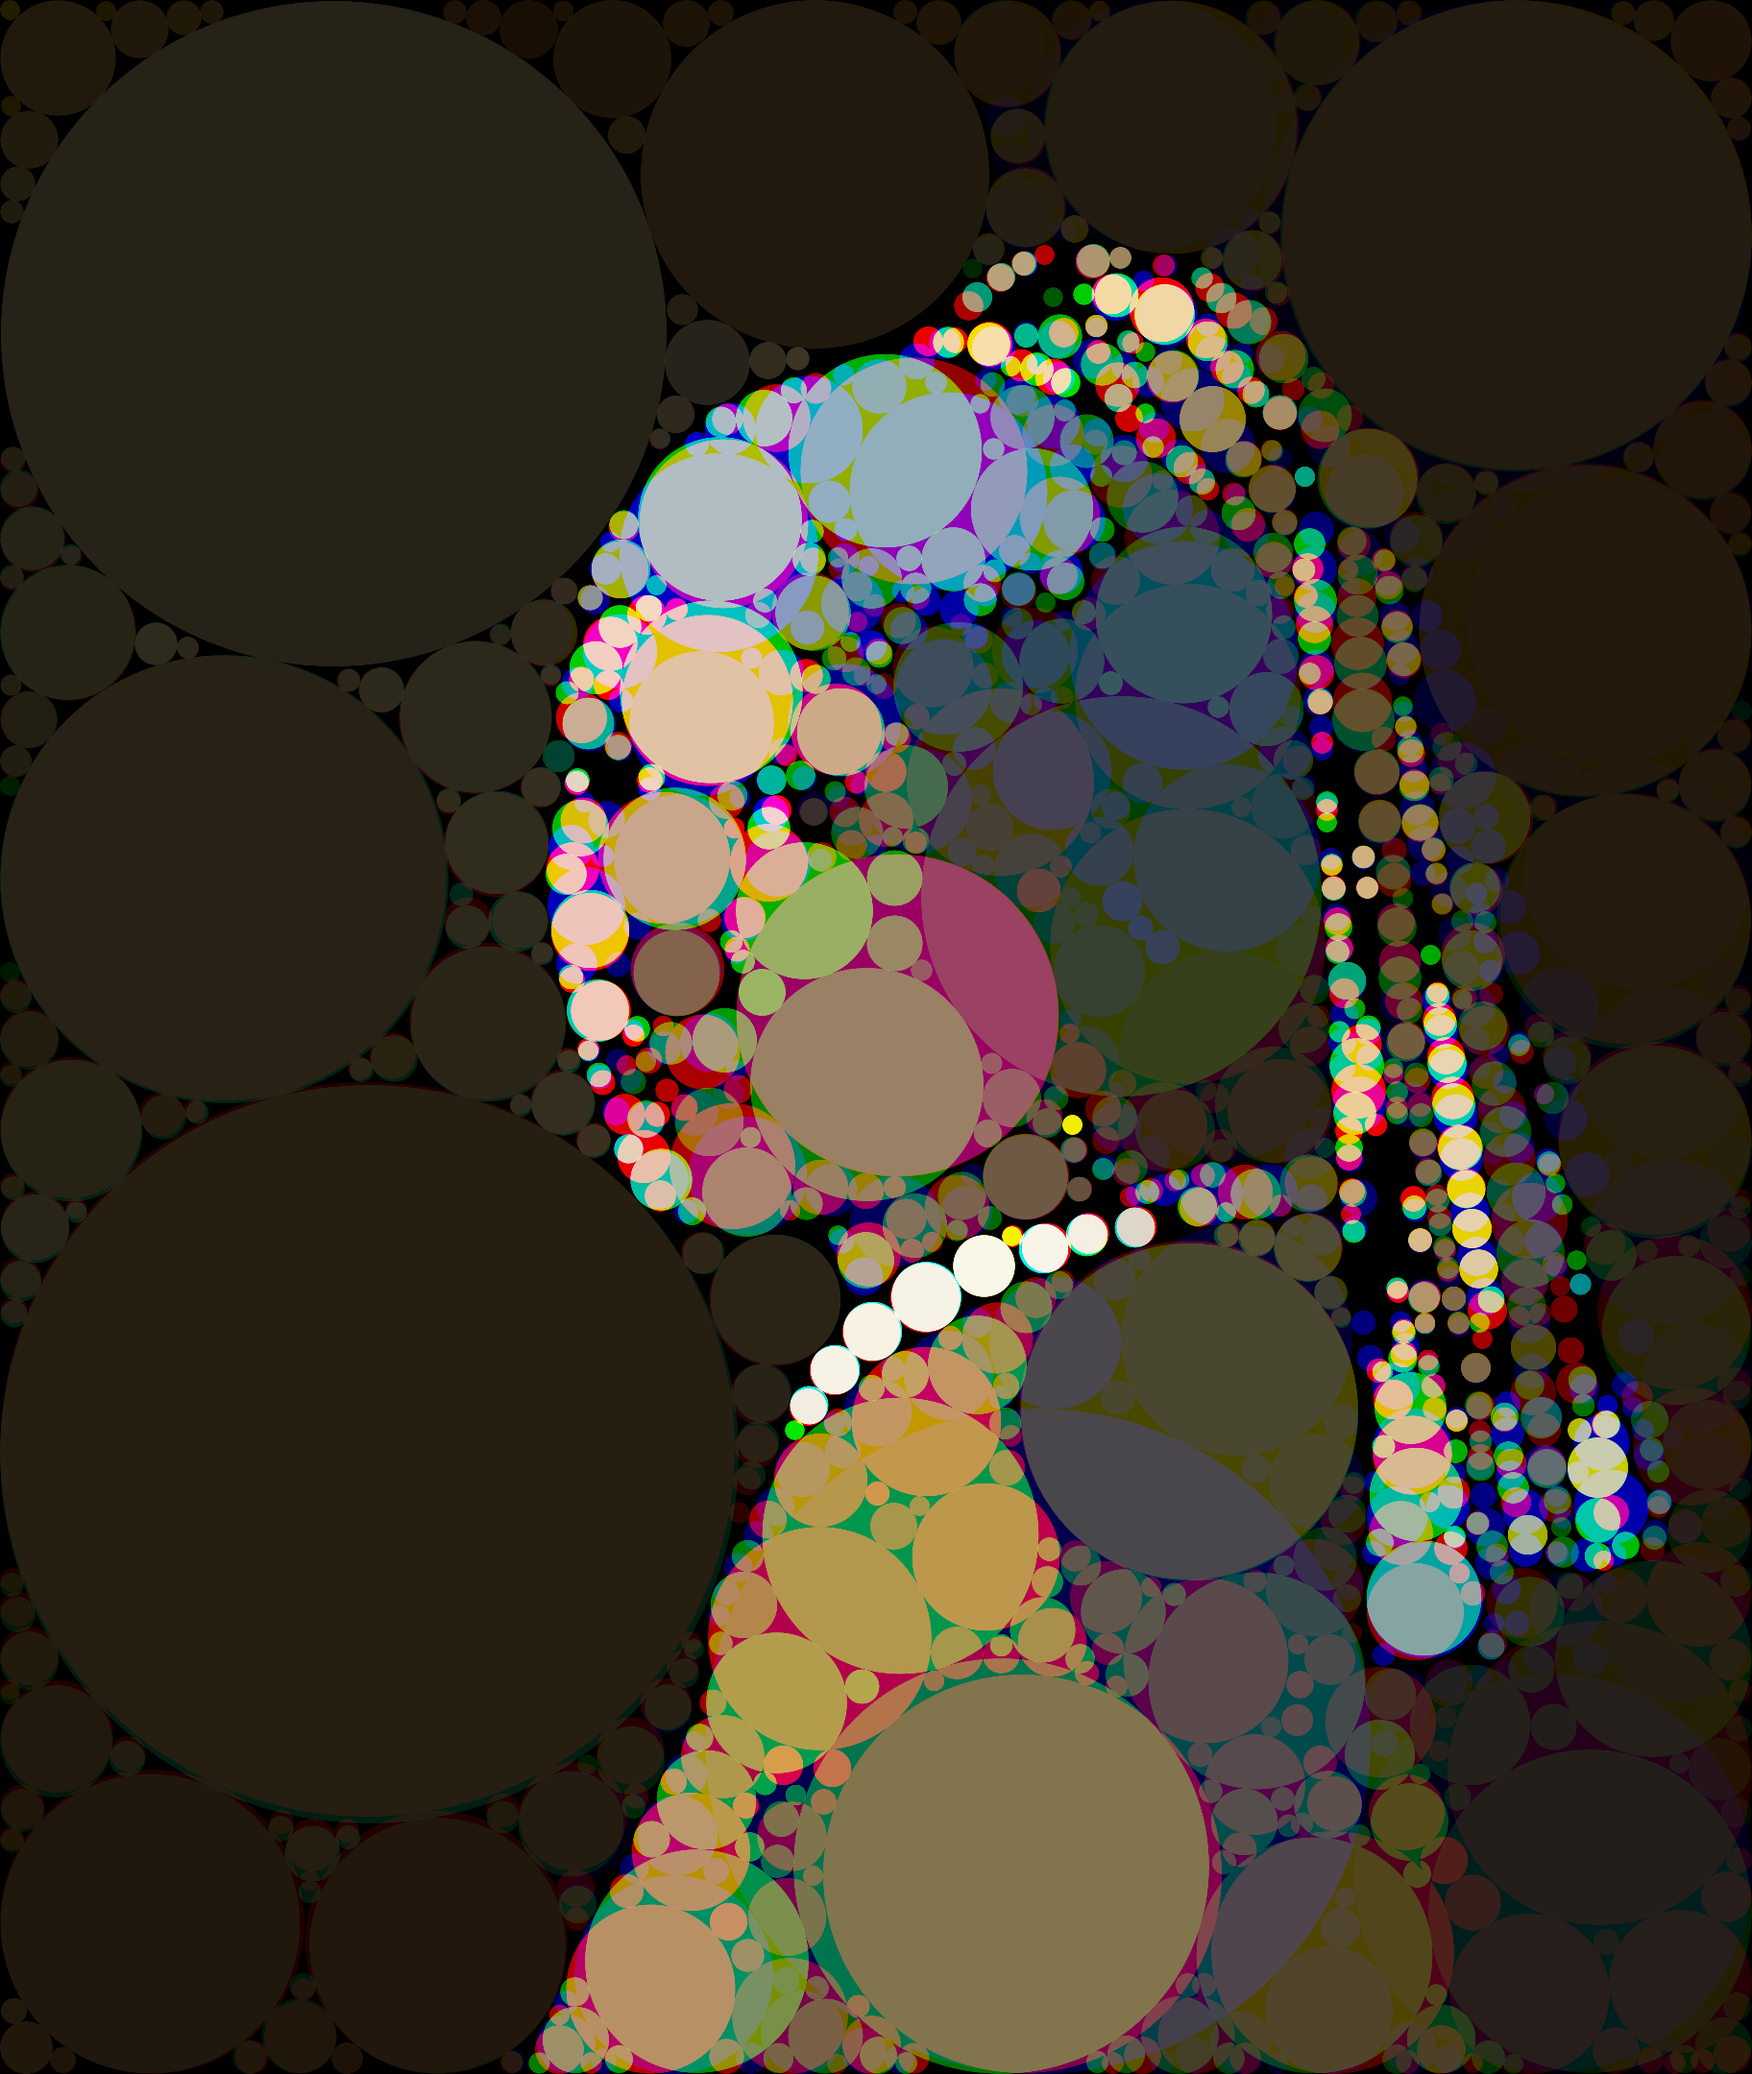
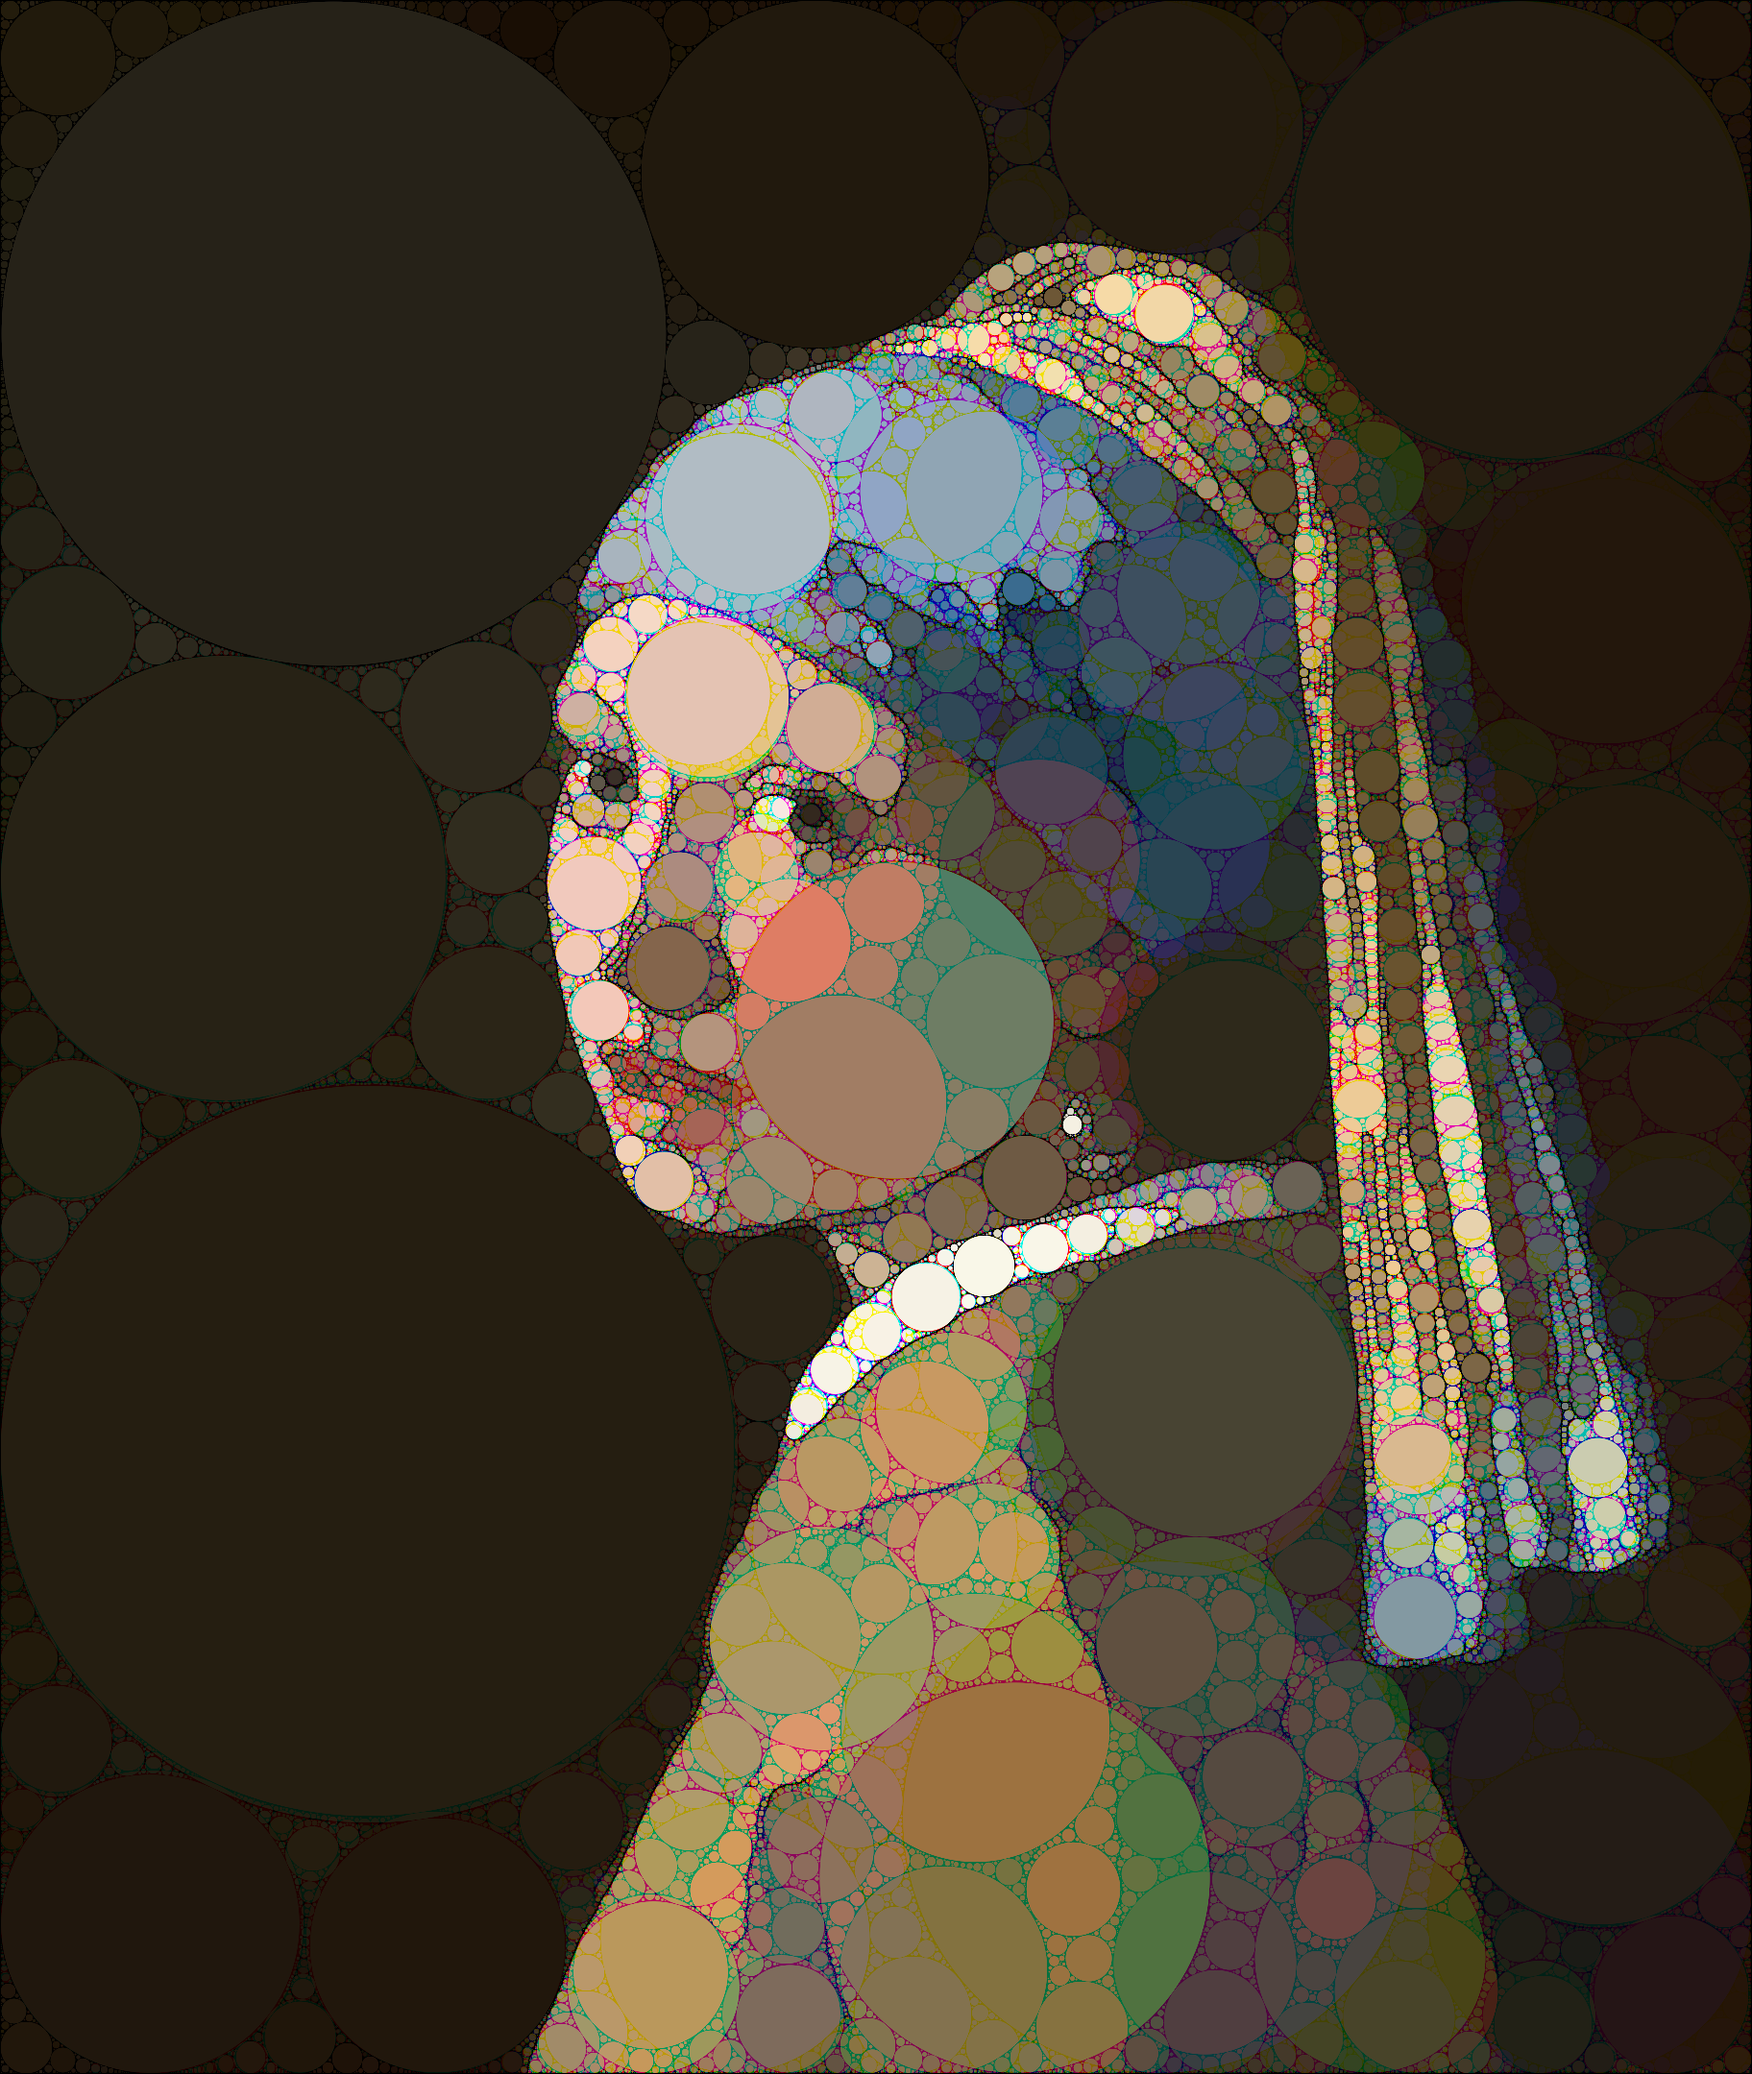
Improved circle padding and edge selection

diff --git a/im2circles.m b/im2circles.m
@@ -11,7 +11,7 @@ im = imresize(im,2.28);
 %% Create Edge Map
 
 % Find edges
-edges = edge(im(:,:),'canny',0.125);
+edges = edge(im(:,:),'canny',0.0875);
 edges = reshape(edges,size(im));
 
 % Pad edge map borders
@@ -38,12 +38,11 @@ while mean2(radius) >= 1
     dist1 = min((mask - radius.^2) ./ (dist1 + 2 * radius),dist1);
     
     mask = 1 - (mask - radius.^2) ./ radius;
-    mask = min(max(mask,0),1);
+    mask = min(max(mask,1),2) - 1;
     color = sum(im .* mask,[1,2]) ./ sum(mask,[1,2]);
     RGB = RGB + color.^2 .* mask;
     
 end
 
-RGB = sqrt(RGB);
-imwrite(RGB,'pearlCircles3.png','png')
-imshow(RGB)
+imwrite(sqrt(RGB),'pearlCircles4.png','png')
+imshow(sqrt(RGB))
